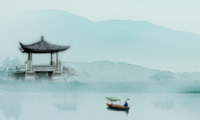
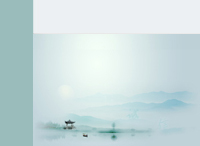
皮肤中心

diff --git a/mail24/appfront/src/views/layout/index.vue b/mail24/appfront/src/views/layout/index.vue
@@ -64,7 +64,7 @@
 
     <article class="lymain" v-if="!change_password">
       <section>
-        <header class="lyheader" >
+        <header class="lyheader" :class="skin_order">
           <div class="logo">
             <a href="javascript:void(0);" class="u-img j-lylogo" data-trigger="mail.welcome">
               <img :src="welcome_logo" alt="U-Mail" style=" height: 42px;">
@@ -364,12 +364,12 @@
         admin_login_url:'',
         skins:[
           {url:'jingdianlan',title:''},
-          {url:'chunzhihua',title:''},
-          {url:'yanyujiangnan',title:''},
-          {url:'hetangyuese',title:''},
           {url:'qingxinlu',title:''},
           {url:'haishuilan',title:''},
-          {url:'zhongguofeng',title:''}
+          {url:'yanyujiangnan',title:''},
+          {url:'chunzhihua',title:''},
+          {url:'zhongguofeng',title:''},
+          {url:'hetangyuese',title:''},
         ],
         welcome_logo:'',
         passwordRules:{
@@ -1069,12 +1069,13 @@
         }
         this.skins = [
           {url:'jingdianlan',title: lang.SETTING_SKIN_JINGDIANLAN},
-          {url:'chunzhihua',title: lang.SETTING_SKIN_CHUNZHIHUA},
-          {url:'yanyujiangnan',title: lang.SETTING_SKIN_YANYUJIANGNAN},
-          {url:'hetangyuese',title: lang.SETTING_SKIN_HETANGYUESE},
           {url:'qingxinlu',title: lang.SETTING_SKIN_QINGXINLU},
           {url:'haishuilan',title: lang.SETTING_SKIN_HAISHUILAN},
-          {url:'zhongguofeng',title: lang.SETTING_SKIN_ZHONGGUOFENG}
+          {url:'yanyujiangnan',title: lang.SETTING_SKIN_YANYUJIANGNAN},
+          {url:'chunzhihua',title: lang.SETTING_SKIN_CHUNZHIHUA},
+          {url:'zhongguofeng',title: lang.SETTING_SKIN_ZHONGGUOFENG},
+          {url:'keaifen',title: lang.SETTING_SKIN_KEAIFEN},
+          {url:'hetangyuese',title: lang.SETTING_SKIN_HETANGYUESE},
         ]
         this.passwordFormRules.password =  [
           { required: true, message: lang.COMMON_SRC_PASSWORD_RULE, trigger: 'blur' },
@@ -1198,17 +1199,23 @@
     /*background-color:#98B4EA;*/
   }
   .chunzhihua{
-    background-color:#9BC78A !important;
+    background-color:#95C097 !important;
+  }
+  .chunzhihua.lyheader{
+    background-color:#EEF7EE !important;
   }
   .lysidebar.chunzhihua .icon{
-    color:#326F2B;
+    color:#fff;
   }
   .lysidebar.chunzhihua .icon:hover,.lysidebar.chunzhihua .icon.active{
-    background-color:#639D66;
+    background-color:#6AA36E;
     color:#fff;
   }
   .yanyujiangnan{
     background-color:#9ABDBC !important;
+  }
+  .yanyujiangnan.lyheader{
+    background-color:#EDF2F3 !important;
   }
   .lysidebar.yanyujiangnan .icon{
     color:#fff;
@@ -1221,6 +1228,9 @@
   .hetangyuese{
     background-color:#947DAE !important;
   }
+  .hetangyuese.lyheader{
+    background-color:#D5BFDD !important;
+  }
   .lysidebar.hetangyuese .icon{
     color:#fff;
   }
@@ -1230,6 +1240,9 @@
 
   .qingxinlu{
     background-color:#6CAF7C !important;
+  }
+  .qingxinlu.lyheader{
+    background-color:#F6FAFB !important;
   }
   .lysidebar.qingxinlu .icon{
     color:#fff;
@@ -1241,6 +1254,9 @@
   .haishuilan{
     background-color:#74CAE4 !important;
   }
+  .haishuilan.lyheader{
+    background-color:#FCFFFF !important;
+  }
   .lysidebar.haishuilan .icon{
     color:#fff;
   }
@@ -1251,11 +1267,141 @@
   .zhongguofeng{
     background-color:#C5BEAA !important;
   }
+  .zhongguofeng.lyheader{
+    background-color:#EBE9E3 !important;
+  }
   .lysidebar.zhongguofeng .icon{
     color:#fff;
   }
   .lysidebar.zhongguofeng .icon:hover,.lysidebar.zhongguofeng .icon.active{
-    background-color:#0B0B0A;
+    background-color:#969187;
+  }
+
+  .fanxingzhiwu{
+    background-color:#000 !important;
+  }
+  .lysidebar.fanxingzhiwu .icon{
+    color:#fff;
+  }
+  .lysidebar.fanxingzhiwu .icon:hover,.lysidebar.fanxingzhiwu .icon.active{
+    background-color:#000;
+  }
+
+  .chenlu{
+    background-color:#709AC2 !important;
+  }
+  .chenlu.lyheader{
+    background-color:#EBF3F7 !important;
+  }
+  .lysidebar.chenlu .icon{
+    color:#fff;
+  }
+  .lysidebar.chenlu .icon:hover,.lysidebar.chenlu .icon.active{
+    background-color:#2966A0;
+  }
+
+  .caodi{
+    background-color:#6CA531 !important;
+  }
+  .caodi.lyheader{
+    background-color:#BFD4A9 !important;
+  }
+  .lysidebar.caodi .icon{
+    color:#fff;
+  }
+  .lysidebar.caodi .icon:hover,.lysidebar.caodi .icon.active{
+    background-color:#368019;
+  }
+
+  .muwen{
+    background-color:#D5A660 !important;
+  }
+  .muwen.lyheader{
+    background-color:#F0DEC3 !important;
+  }
+  .lysidebar.muwen .icon{
+    color:#fff;
+  }
+  .lysidebar.muwen .icon:hover,.lysidebar.muwen .icon.active{
+    background-color:#BC8C42;
+  }
+
+  .tiankonglan{
+    background-color:#4680BE !important;
+  }
+  .tiankonglan.lyheader{
+    background-color:#ECF0F3 !important;
+  }
+  .lysidebar.tiankonglan .icon{
+    color:#fff;
+  }
+  .lysidebar.tiankonglan .icon:hover,.lysidebar.tiankonglan .icon.active{
+    background-color:#2A67A1;
+  }
+
+  .taohuahong{
+    background-color:#FABCCE !important;
+  }
+  .taohuahong.lyheader{
+    background-color:#FFFBFC !important;
+  }
+  .lysidebar.taohuahong .icon{
+    color:#fff;
+  }
+  .lysidebar.taohuahong .icon:hover,.lysidebar.taohuahong .icon.active{
+    background-color:#F2A1BC;
+  }
+
+  .keaifen{
+    background-color:#E86C9B !important;
+  }
+  .keaifen.lyheader{
+    background-color:#FCF3F2 !important;
+  }
+  .lysidebar.keaifen .icon{
+    color:#fff;
+  }
+  .lysidebar.keaifen .icon:hover,.lysidebar.keaifen .icon.active{
+    background-color:#D43E73;
+  }
+
+  .jianlan{
+    background-color:#2863ba !important;
+  }
+  .jianlan.lyheader{
+    background-color:#D4DEF1 !important;
+  }
+  .lysidebar.jianlan .icon{
+    color:#fff;
+  }
+  .lysidebar.jianlan .icon:hover,.lysidebar.jianlan .icon.active{
+    background-color:#12396F;
+  }
+
+  .jianlu{
+    background-color:#329436 !important;
+  }
+  .jianlu.lyheader{
+    background-color:#D6E9D4 !important;
+  }
+  .lysidebar.jianlu .icon{
+    color:#fff;
+  }
+  .lysidebar.jianlu .icon:hover,.lysidebar.jianlu .icon.active{
+    background-color:#1A6119;
+  }
+
+  .jianqing{
+    background-color:#41ADE6 !important;
+  }
+  .jianqing.lyheader{
+    background-color:#D9EDFA !important;
+  }
+  .lysidebar.jianqing .icon{
+    color:#fff;
+  }
+  .lysidebar.jianqing .icon:hover,.lysidebar.jianqing .icon.active{
+    background-color:#287BAB;
   }
 
   /*.shiguangshalou{*/

diff --git a/mail24/appfront/src/views/setting/page/skin.vue b/mail24/appfront/src/views/setting/page/skin.vue
@@ -43,12 +43,21 @@
       return {
         imgs:[
           {url:'jingdianlan',title: this.$parent.lan.SETTING_SKIN_JINGDIANLAN},
-          {url:'chunzhihua',title: this.$parent.lan.SETTING_SKIN_CHUNZHIHUA},
-          {url:'yanyujiangnan',title: this.$parent.lan.SETTING_SKIN_YANYUJIANGNAN},
-          {url:'hetangyuese',title: this.$parent.lan.SETTING_SKIN_HETANGYUESE},
           {url:'qingxinlu',title: this.$parent.lan.SETTING_SKIN_QINGXINLU},
+          {url:'tiankonglan',title: this.$parent.lan.SETTING_SKIN_TIANKONGLAN},
+          {url:'taohuahong',title: this.$parent.lan.SETTING_SKIN_TAOHUAHONG},
+          {url:'jianlan',title: this.$parent.lan.SETTING_SKIN_JIANLAN},
+          {url:'jianlu',title: this.$parent.lan.SETTING_SKIN_JIANLU},
+          {url:'jianqing',title: this.$parent.lan.SETTING_SKIN_JIANQING},
           {url:'haishuilan',title: this.$parent.lan.SETTING_SKIN_HAISHUILAN},
+          {url:'yanyujiangnan',title: this.$parent.lan.SETTING_SKIN_YANYUJIANGNAN},
+          {url:'keaifen',title: this.$parent.lan.SETTING_SKIN_KEAIFEN},
+          {url:'chunzhihua',title: this.$parent.lan.SETTING_SKIN_CHUNZHIHUA},
           {url:'zhongguofeng',title: this.$parent.lan.SETTING_SKIN_ZHONGGUOFENG},
+          {url:'chenlu',title: this.$parent.lan.SETTING_SKIN_CHENLU},
+          {url:'caodi',title: this.$parent.lan.SETTING_SKIN_CAODI},
+          {url:'muwen',title: this.$parent.lan.SETTING_SKIN_MUWEN},
+          {url:'hetangyuese',title: this.$parent.lan.SETTING_SKIN_HETANGYUESE},
         ]
       }
     },

diff --git a/mail24/appfront/src/assets/js/en.js b/mail24/appfront/src/assets/js/en.js
@@ -493,13 +493,22 @@ var  zh_hans = {
   // SETTING_SKIN_QINGXINLU: "清新绿",
   // SETTING_SKIN_HAISHUILAN: "海水蓝",
   // SETTING_SKIN_ZHONGGUOFENG: "中国风",
-  SETTING_SKIN_JINGDIANLAN: "",
-  SETTING_SKIN_CHUNZHIHUA: "",
+  SETTING_SKIN_JINGDIANLAN: "Classic Blue (default)",
+  SETTING_SKIN_CHUNZHIHUA: "Flowers of Spring",
   SETTING_SKIN_YANYUJIANGNAN: "",
-  SETTING_SKIN_HETANGYUESE: "",
-  SETTING_SKIN_QINGXINLU: "",
-  SETTING_SKIN_HAISHUILAN: "",
-  SETTING_SKIN_ZHONGGUOFENG: "",
+  SETTING_SKIN_HETANGYUESE: "Moonlight of Lotus Pond",
+  SETTING_SKIN_QINGXINLU: "Fresh Green",
+  SETTING_SKIN_HAISHUILAN: "Sea Blue",
+  SETTING_SKIN_ZHONGGUOFENG: "Chinese Wind",
+  SETTING_SKIN_TIANKONGLAN: "Sky Blue",
+  SETTING_SKIN_CHENLU: "Morning Heron",
+  SETTING_SKIN_CAODI: "Grassland",
+  SETTING_SKIN_MUWEN: "Wood grain",
+  SETTING_SKIN_TAOHUAHONG: "Peach Blossom Red",
+  SETTING_SKIN_KEAIFEN: "Cute Powder",
+  SETTING_SKIN_JIANLAN: "Simple Blue",
+  SETTING_SKIN_JIANLU: "Simple Green",
+  SETTING_SKIN_JIANQING: "Simple Cyan",
   SETTING_SKIN_MSG: "Set skin successfully!",
   // 签名
   SETTING_SIG_BUTTON_ADD: "New Signature",

diff --git a/mail24/appfront/src/views/setting/page/twofactor.vue b/mail24/appfront/src/views/setting/page/twofactor.vue
@@ -1,5 +1,5 @@
 <template>
-  <div class="j-module-content j-maillist mllist-list height100 ">
+  <div class="j-module-content j-maillist mllist-list height100 " style="background-color: rgba(255,255,255,0.3);">
 
     <el-row class="" style="padding: 0px;">
       <el-col :span="24" class="breadcrumb-container">
@@ -11,7 +11,7 @@
       </el-col>
     </el-row>
 
-    <section class="content content-list" style="background-color: rgba(255,255,255,0.3);padding-bottom: 13px;">
+    <section class="content content-list" style="padding-bottom: 13px;">
       <div style="padding:0 10px;">
         <p>{{this.$parent.lan.SETTING_TWOFACTOR_TITLE}}</p>
         <el-alert style="margin:10px 0;" :title="this.$parent.lan.SETTING_TWOFACTOR_ALERT" type="warning" :closable="false" v-if="!showList.has_totp && !showList.has_phone"></el-alert>

diff --git a/mail24/appfront/src/assets/js/zh_hans.js b/mail24/appfront/src/assets/js/zh_hans.js
@@ -489,6 +489,15 @@ var  zh_hans = {
   SETTING_SKIN_QINGXINLU: "清新绿",
   SETTING_SKIN_HAISHUILAN: "海水蓝",
   SETTING_SKIN_ZHONGGUOFENG: "中国风",
+  SETTING_SKIN_TIANKONGLAN: "天空蓝",
+  SETTING_SKIN_CHENLU: "晨鹭",
+  SETTING_SKIN_CAODI: "草地",
+  SETTING_SKIN_MUWEN: "木纹",
+  SETTING_SKIN_TAOHUAHONG: "桃花红",
+  SETTING_SKIN_KEAIFEN: "可爱粉",
+  SETTING_SKIN_JIANLAN: "简蓝",
+  SETTING_SKIN_JIANLU: "简绿",
+  SETTING_SKIN_JIANQING: "简青",
   SETTING_SKIN_MSG: "皮肤设置成功！",
   // 签名
   SETTING_SIG_BUTTON_ADD: "添加签名",

diff --git a/mail24/appfront/src/assets/js/zh_hant.js b/mail24/appfront/src/assets/js/zh_hant.js
@@ -491,6 +491,15 @@ var  zh_hant = {
   SETTING_SKIN_QINGXINLU: "清新綠",
   SETTING_SKIN_HAISHUILAN: "海水藍",
   SETTING_SKIN_ZHONGGUOFENG: "中國風",
+  SETTING_SKIN_TIANKONGLAN: "天空藍",
+  SETTING_SKIN_CHENLU: "晨鹭",
+  SETTING_SKIN_CAODI: "草地",
+  SETTING_SKIN_MUWEN: "木紋",
+  SETTING_SKIN_TAOHUAHONG: "桃花紅",
+  SETTING_SKIN_KEAIFEN: "可愛粉",
+  SETTING_SKIN_JIANLAN: "簡藍",
+  SETTING_SKIN_JIANLU: "簡綠",
+  SETTING_SKIN_JIANQING: "簡青",
   SETTING_SKIN_MSG: "皮膚設置成功！",
   // 簽名
   SETTING_SIG_BUTTON_ADD: "添加簽名",
